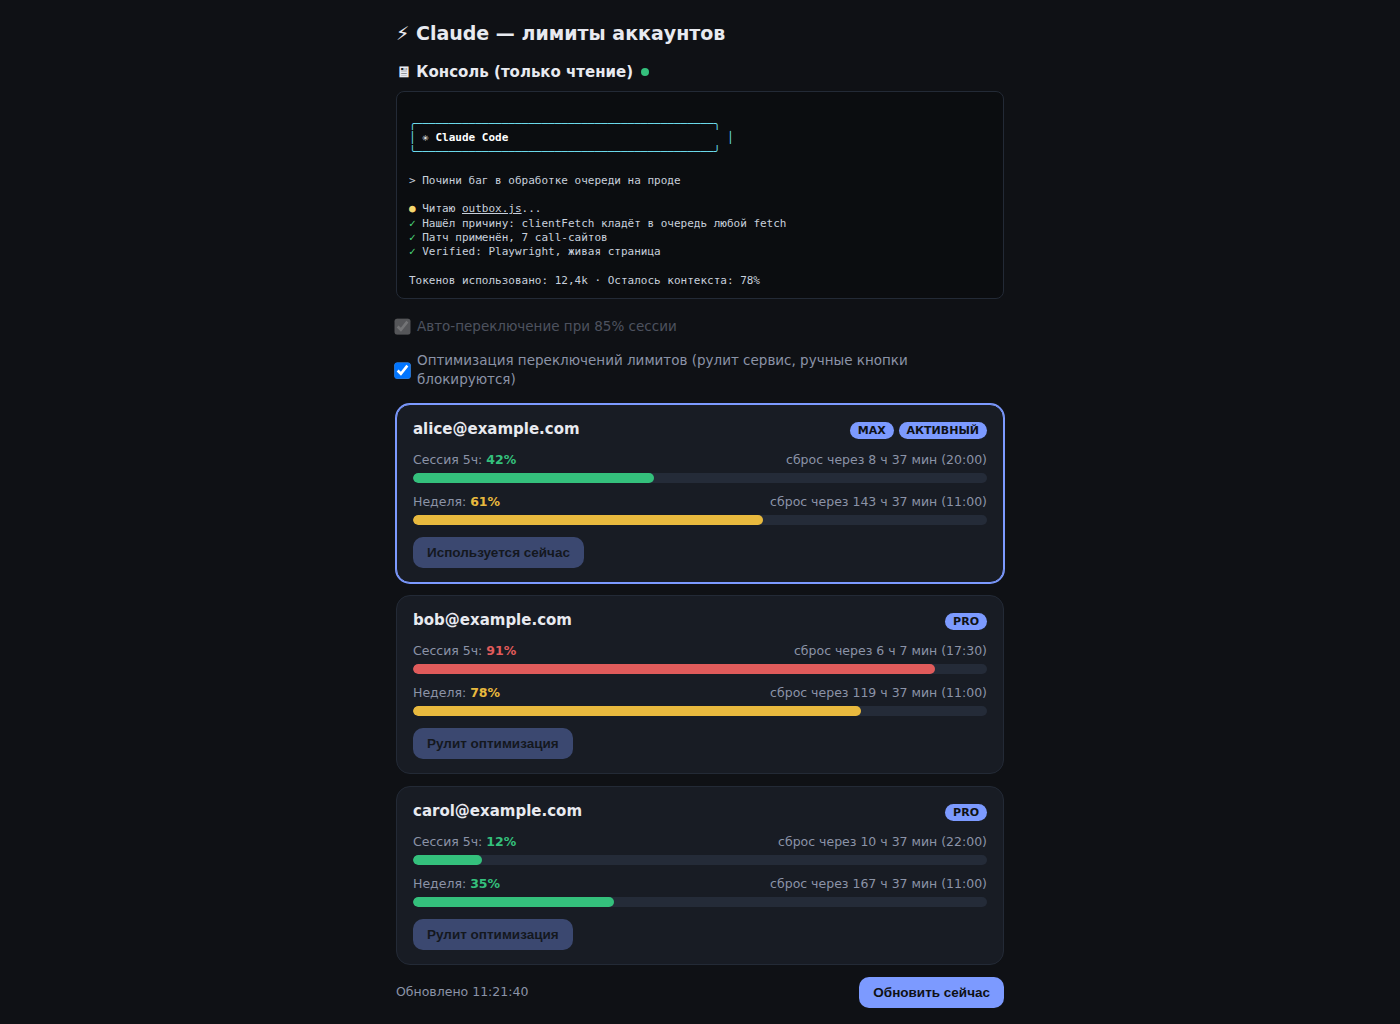
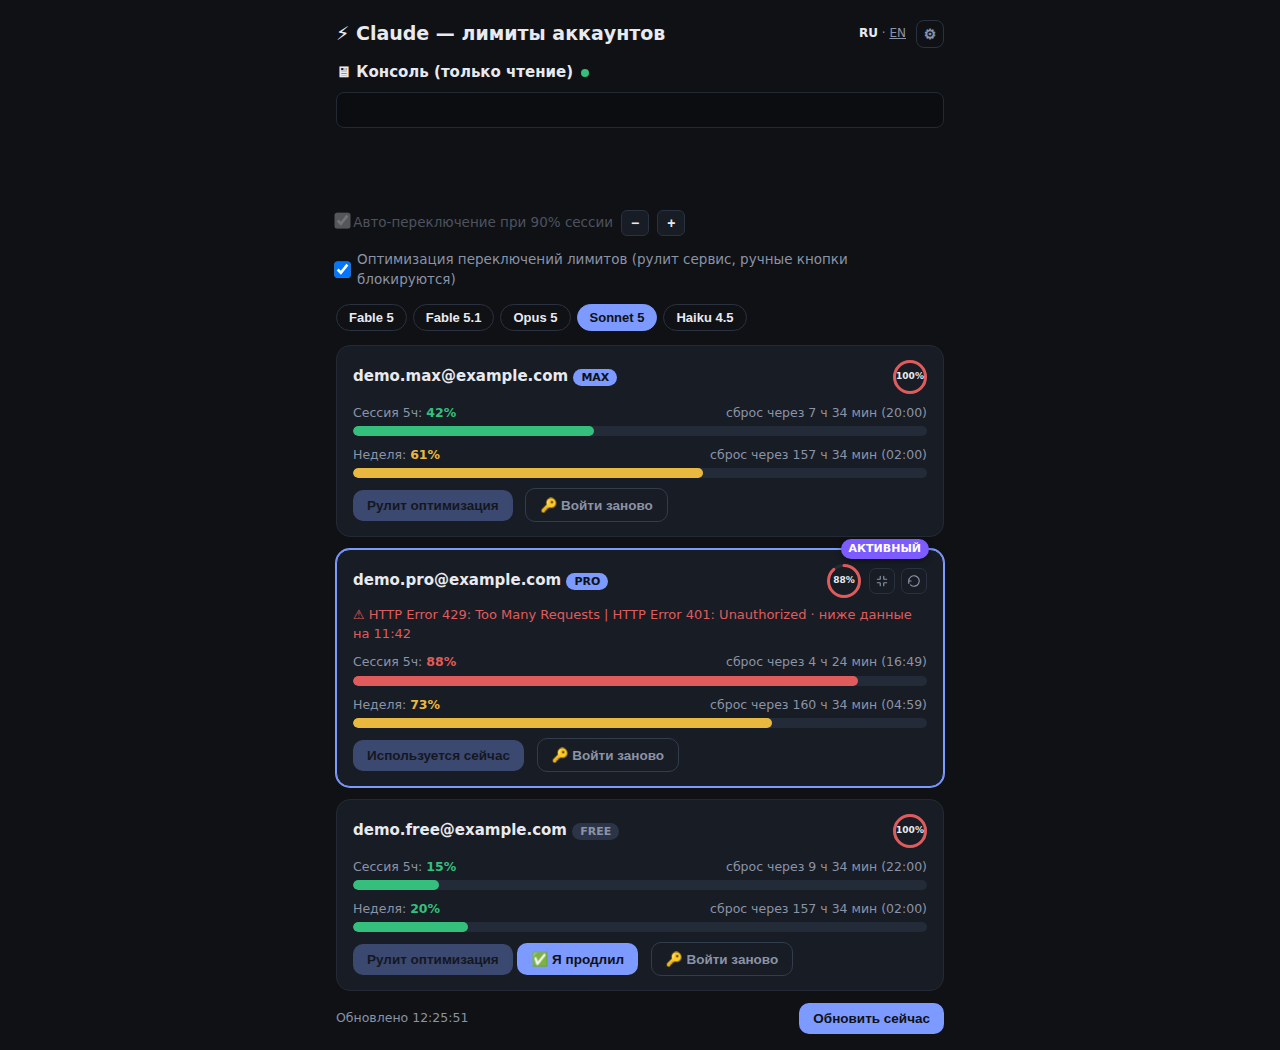
v1.7.0: countdown ring, /compact and new-session buttons, floating active badge

diff --git a/cc_limits.py b/cc_limits.py
@@ -1273,11 +1273,20 @@ h1{font-size:19px;margin:0}
 .poolrow input{transform:scale(1.2)}
 .newbadge{font-size:10px;padding:1px 7px;border-radius:99px;background:rgba(124,154,255,.18);color:var(--acc);font-weight:700;margin-left:auto}
 .modalfoot{display:flex;justify-content:flex-end;margin-top:8px}
-.card{background:var(--card);border-radius:14px;padding:14px 16px;margin-bottom:12px;border:1px solid #232a36}
+.card{position:relative;background:var(--card);border-radius:14px;padding:14px 16px;margin-bottom:12px;border:1px solid #232a36}
 .card.active{border-color:var(--acc);box-shadow:0 0 0 1px var(--acc)}
 .top{display:flex;justify-content:space-between;align-items:center;gap:8px;flex-wrap:wrap}
 .email{font-weight:600;font-size:15px;word-break:break-all}
 .tag{font-size:11px;padding:2px 8px;border-radius:99px;background:var(--acc);color:#0f1115;font-weight:700;white-space:nowrap}
+.tag.pin{position:absolute;top:0;right:14px;transform:translateY(-55%);background:#7c5cff;color:#fff;box-shadow:0 2px 6px rgba(0,0,0,.4);z-index:3}
+.hdrright{display:flex;align-items:center;gap:8px;flex:none}
+.ring{position:relative;flex:none}
+.ring svg{display:block}
+.ringtxt{position:absolute;inset:0;display:flex;align-items:center;justify-content:center;color:var(--txt);font-weight:700}
+.iconrow{display:flex;gap:6px;flex:none}
+.iconbtn{width:26px;height:26px;display:inline-flex;align-items:center;justify-content:center;background:var(--card);border:1px solid #2a3140;border-radius:7px;color:var(--mut);cursor:pointer;padding:0;margin:0;flex:none}
+.iconbtn:hover{border-color:var(--acc);color:var(--txt)}
+.iconbtn svg{width:14px;height:14px}
 .row{margin-top:10px}
 .lbl{display:flex;justify-content:space-between;font-size:12.5px;color:var(--mut);margin-bottom:4px}
 .bar{height:10px;border-radius:99px;background:#242b38;overflow:hidden}
@@ -1402,6 +1411,9 @@ const I18N={
   modelsDone:'Готово',
   noModelsEnabled:'Ни одна модель не включена — открой ⚙',
   newBadge:'новая',
+  compactTitle:'Сжать контекст (/compact)',
+  newSessionTitle:'Новая сессия (/clear)',
+  confirmNewSession:'Начать новую сессию Claude (/clear)? Текущий разговор уйдёт в фон на диск, вернуться можно через /resume в консоли. Продолжить?',
  },
  en:{
   title:'Claude — Account Limits',
@@ -1453,6 +1465,9 @@ const I18N={
   modelsDone:'Done',
   noModelsEnabled:'No models enabled — open ⚙',
   newBadge:'new',
+  compactTitle:'Compact context (/compact)',
+  newSessionTitle:'New session (/clear)',
+  confirmNewSession:'Start a new Claude session (/clear)? The current conversation moves to disk in the background — resume it with /resume in the console. Continue?',
  },
 };
 let LANG='ru';
@@ -1505,16 +1520,29 @@ function rst(iso){if(!iso)return'';const d=new Date(iso),m=Math.max(0,Math.round
  const h=Math.floor(m/60),mm=m%60;return tr('resetIn',h,mm,d.toLocaleTimeString(LANG==='en'?'en-GB':'ru',{hour:'2-digit',minute:'2-digit'}))}
 function bar(lbl,o){o=o||{};const p=o.pct;return`<div class="row"><div class="lbl"><span>${lbl}: <b style="color:${col(p)}">${p==null?'?':p+'%'}</b></span><span>${rst(o.resets_at)}</span></div>
  <div class="bar"><div class="fill" style="width:${p||0}%;background:${col(p)}"></div></div></div>`}
+function urgCol(f){return f>.5?'var(--bad)':f>.2?'var(--warn)':'var(--ok)'}
+function frac(iso,windowSec){if(!iso)return 0;const remain=(new Date(iso)-Date.now())/1000;return Math.max(0,Math.min(1,remain/windowSec))}
+function ring(o,windowSec,size){o=o||{};size=size||34;const sw=Math.max(3,Math.round(size*.1));const rad=size/2-sw/2;const circ=2*Math.PI*rad;const f=frac(o.resets_at,windowSec);const uc=urgCol(f);const dash=(f*circ).toFixed(1);const c=size/2;
+ return `<div class="ring" style="width:${size}px;height:${size}px" title="${rst(o.resets_at)}"><svg viewBox="0 0 ${size} ${size}" width="${size}" height="${size}"><circle cx="${c}" cy="${c}" r="${rad}" fill="none" stroke="#242b38" stroke-width="${sw}"/><circle cx="${c}" cy="${c}" r="${rad}" fill="none" stroke="${uc}" stroke-width="${sw}" stroke-linecap="round" stroke-dasharray="${dash} ${circ.toFixed(1)}" transform="rotate(-90 ${c} ${c})"/></svg><span class="ringtxt" style="font-size:${Math.round(size*.26)}px">${Math.round(f*100)}%</span></div>`}
 function renderCards(d){
  const opt=!!(d.config&&d.config.optimize);
- $('#cards').innerHTML=Object.entries(d.accounts).map(([n,a])=>`
+ $('#cards').innerHTML=Object.entries(d.accounts).map(([n,a])=>{
+  const plan=a.plan==='free'?'<span class="tag" style="background:#2c3547;color:var(--mut)">FREE</span> ':a.plan?'<span class="tag" style="background:var(--acc);color:#0f1115">'+a.plan.toUpperCase()+'</span> ':'';
+  const icons=a.active?`<div class="iconrow">
+    <button class="iconbtn" title="${tr('compactTitle')}" onclick="sessionCmd('compact')"><svg viewBox="0 0 24 24" fill="none" stroke="currentColor" stroke-width="2" stroke-linecap="round" stroke-linejoin="round"><path d="M9 4v4a1 1 0 0 1-1 1H4M15 4v4a1 1 0 0 0 1 1h4M9 20v-4a1 1 0 0 0-1-1H4M15 20v-4a1 1 0 0 1 1-1h4"/></svg></button>
+    <button class="iconbtn" title="${tr('newSessionTitle')}" onclick="sessionCmd('new')"><svg viewBox="0 0 24 24" fill="none" stroke="currentColor" stroke-width="2" stroke-linecap="round" stroke-linejoin="round"><path d="M3 12a9 9 0 1 1 3 6.7"/><path d="M3 16v-4h4"/></svg></button>
+   </div>`:'';
+  const r=a.five_hour?ring(a.five_hour,18000):'';
+  return `
   <div class="card ${a.active?'active':''}">
-   <div class="top"><span class="email">${a.email}</span><span>${a.plan==='free'?'<span class="tag" style="background:#2c3547;color:var(--mut)">FREE</span> ':a.plan?'<span class="tag" style="background:var(--acc);color:#0f1115">'+a.plan.toUpperCase()+'</span> ':''}${a.active?'<span class="tag">'+tr('active')+'</span>':''}</span></div>
+   ${a.active?'<span class="tag pin">'+tr('active')+'</span>':''}
+   <div class="top"><span class="email">${a.email} ${plan}</span><div class="hdrright">${r}${icons}</div></div>
    ${a.error?`<div class="err">⚠ ${a.error}${a.stale_ts?tr('staleAt',new Date(a.stale_ts*1000).toLocaleTimeString(LANG==='en'?'en-GB':'ru',{hour:'2-digit',minute:'2-digit'})):''}</div>`:''}${a.five_hour?bar(tr('session5'),a.five_hour)+bar(tr('week'),a.seven_day):''}
    <button onclick="sw('${n}')" ${a.active||opt?'disabled':''} ${opt&&!a.active?'title="'+tr('switchBlockedTitle')+'"':''}>${a.active?tr('usingNow'):opt?tr('optimizeRules'):tr('switchTo')}</button>
    ${a.plan==='free'?`<button onclick="recheck('${n}',this)" style="margin-top:6px;background:var(--acc);color:#0f1115">${tr('extended')}</button>`:''}
    <button onclick="relogin('${n}',this)" style="margin-top:6px;margin-left:8px;background:transparent;border:1px solid #333c4d;color:var(--mut)">${tr('relogin')}</button>
-  </div>`).join('');
+  </div>`;
+ }).join('');
 }
 async function load(refresh){
  const r=await fetch(API+'limits?token='+TOKEN+(refresh?'&refresh=1':''));const d=await r.json();
@@ -1554,6 +1582,13 @@ async function sw(n){
  if(!confirm(tr('confirmSwitch',n)))return;
  const r=await fetch(API+'switch?token='+TOKEN,{method:'POST',headers:{'Content-Type':'application/json'},body:JSON.stringify({account:n})});
  const d=await r.json();toast(d.ok?'✅ '+d.message.split('\n')[0]:'⚠ '+d.message);load();
+}
+async function sessionCmd(cmd){
+ if(cmd==='new'&&!confirm(tr('confirmNewSession')))return;
+ try{
+  const r=await fetch(API+'session?token='+TOKEN,{method:'POST',headers:{'Content-Type':'application/json'},body:JSON.stringify({cmd})});
+  const d=await r.json();toast(d.ok?'✅ '+d.message:'⚠ '+(d.message||''));
+ }catch(e){toast('⚠ '+e)}
 }
 $('#auto').addEventListener('change',async e=>{
  await fetch(API+'config?token='+TOKEN,{method:'POST',headers:{'Content-Type':'application/json'},body:JSON.stringify({autoswitch:e.target.checked})});

diff --git a/README.en.md b/README.en.md
@@ -77,6 +77,13 @@ there's something to say; in normal operation it isn't rendered at all
   as quick-switch buttons on the main screen; clicking a button switches the
   default session model right away. A newly added model in the pool carries
   a "new" badge for its first 14 days.
+- ⏱ **Countdown ring** on every account card, next to the email — its color
+  signals urgency (green → yellow → red as the 5-hour window's reset gets
+  close).
+- ⌨ **`/compact` and new-session buttons** right on the active account's
+  card — no need to switch to the terminal: compact the context or start
+  `/clear` with one click (same `screen`-session injection the model buttons
+  use).
 - 🔐 No OAuth tokens ever leave your machine — everything lives on your own
   server, under your own root.
 - 🧩 One install script, no web wizards or dependencies on someone else's
@@ -350,6 +357,13 @@ in front:
 
 ## Version history
 
+- **v1.7.0** — each account card now shows a countdown ring for the 5-hour
+  window's reset (color signals urgency — green/yellow/red), and the active
+  account's card gets two buttons right on it — compact the context
+  (`/compact`) and start a new session (`/clear`) — no need to switch to the
+  terminal. The "ACTIVE" tag also moved from an inline badge next to the
+  email into a floating pill straddling the card's top border, so the active
+  account stands out at a glance.
 - **v1.6.0** — inactive accounts are no longer polled on every tick: if an
   account already has a fresh cache (younger than `inactive_poll_sec`,
   300s by default), the real Anthropic request is skipped and cached data
